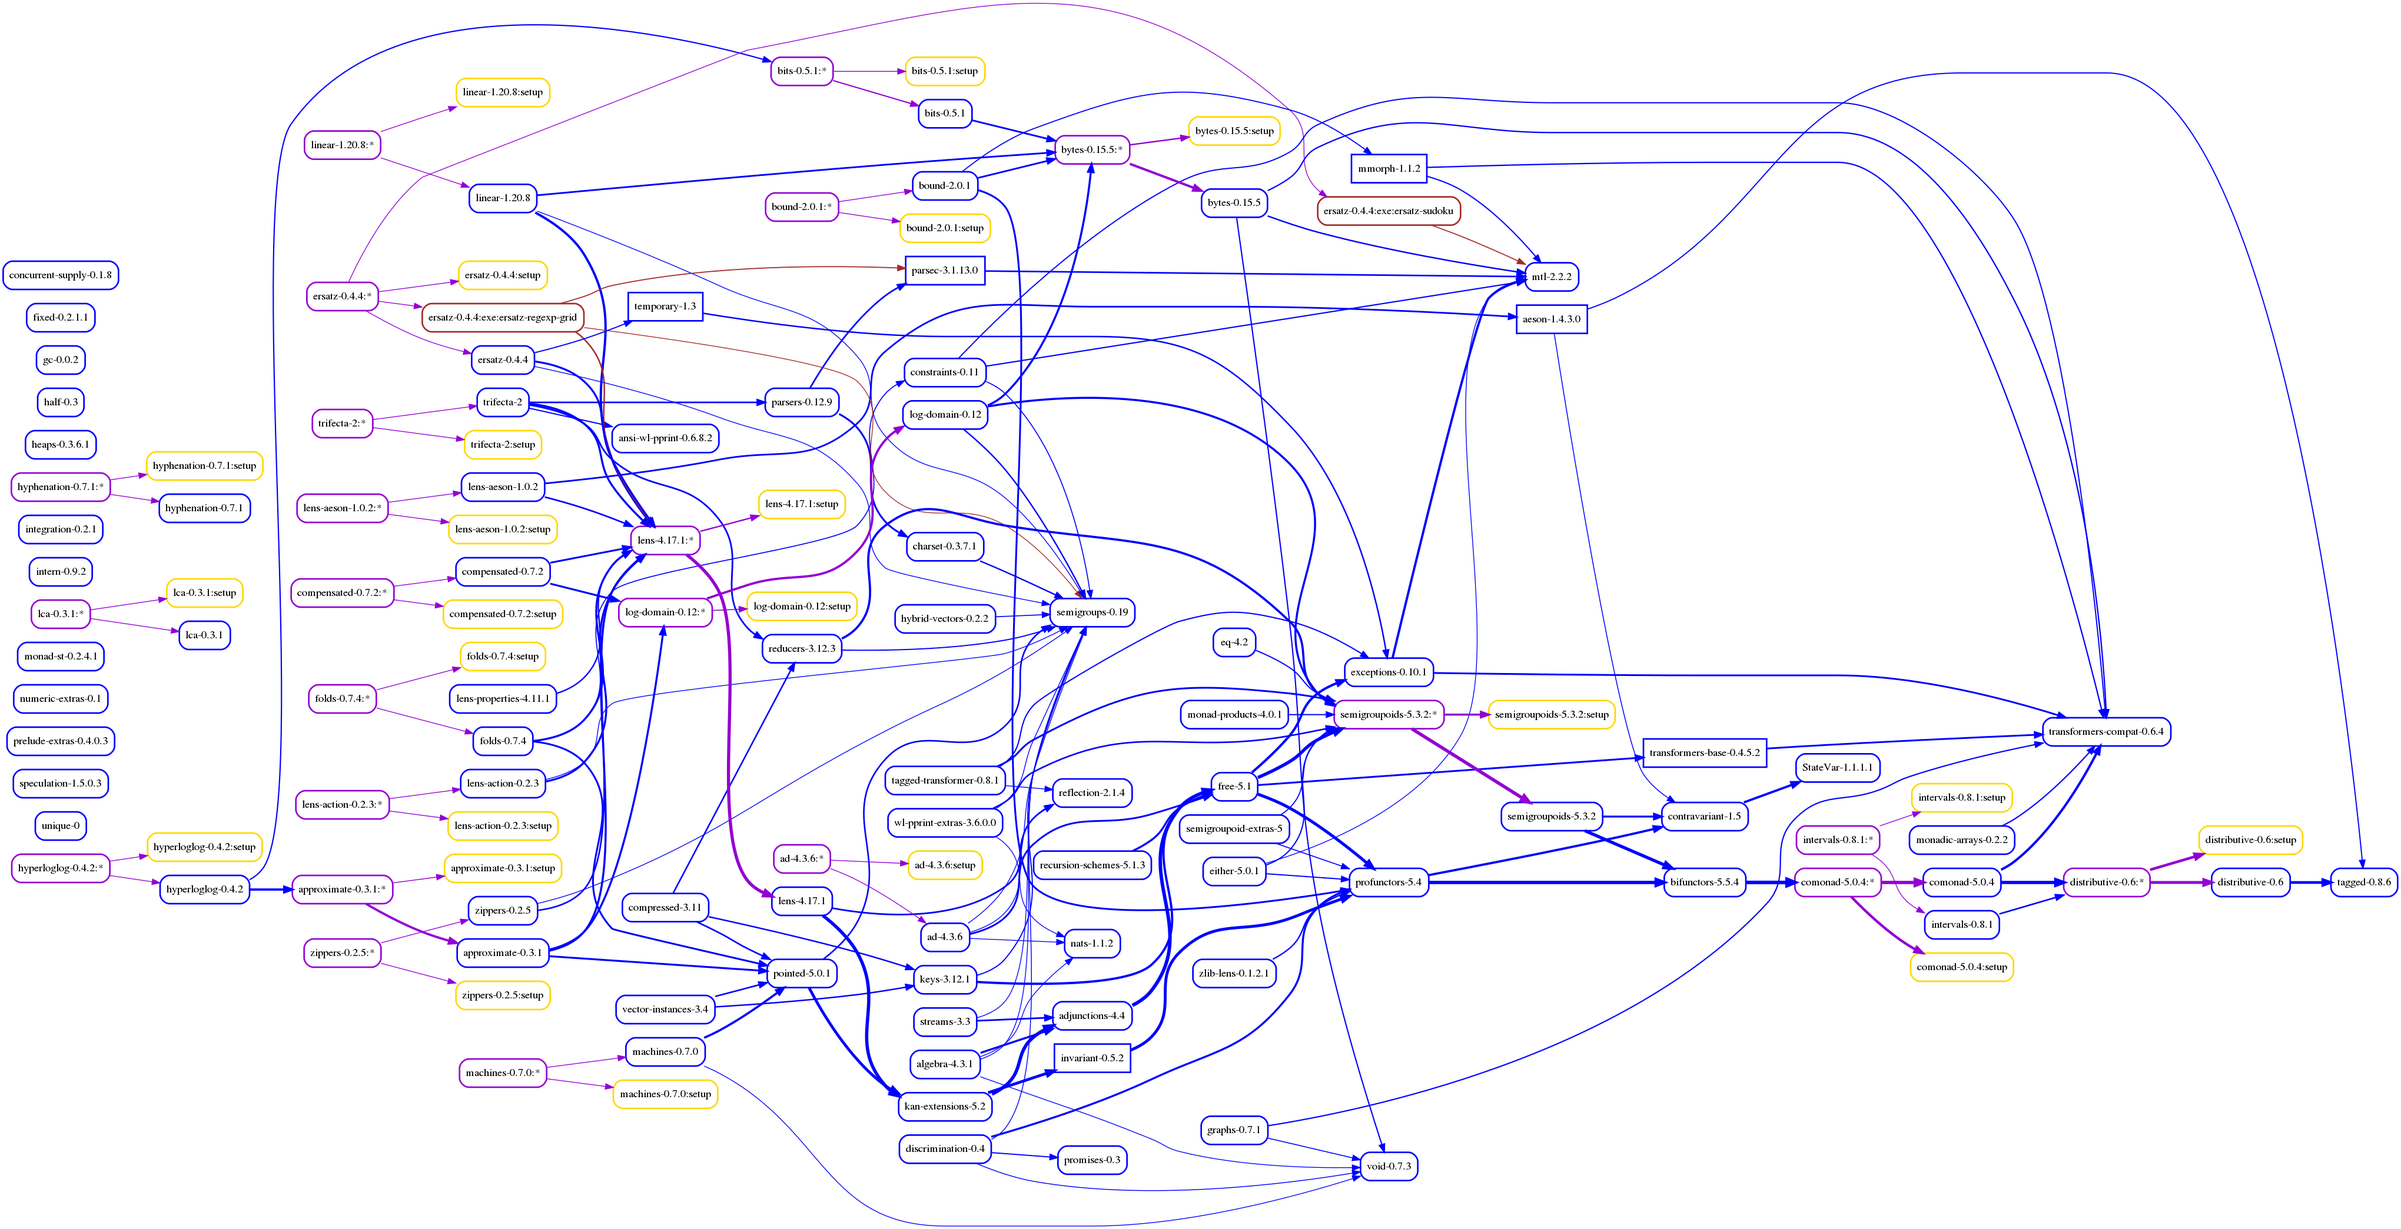
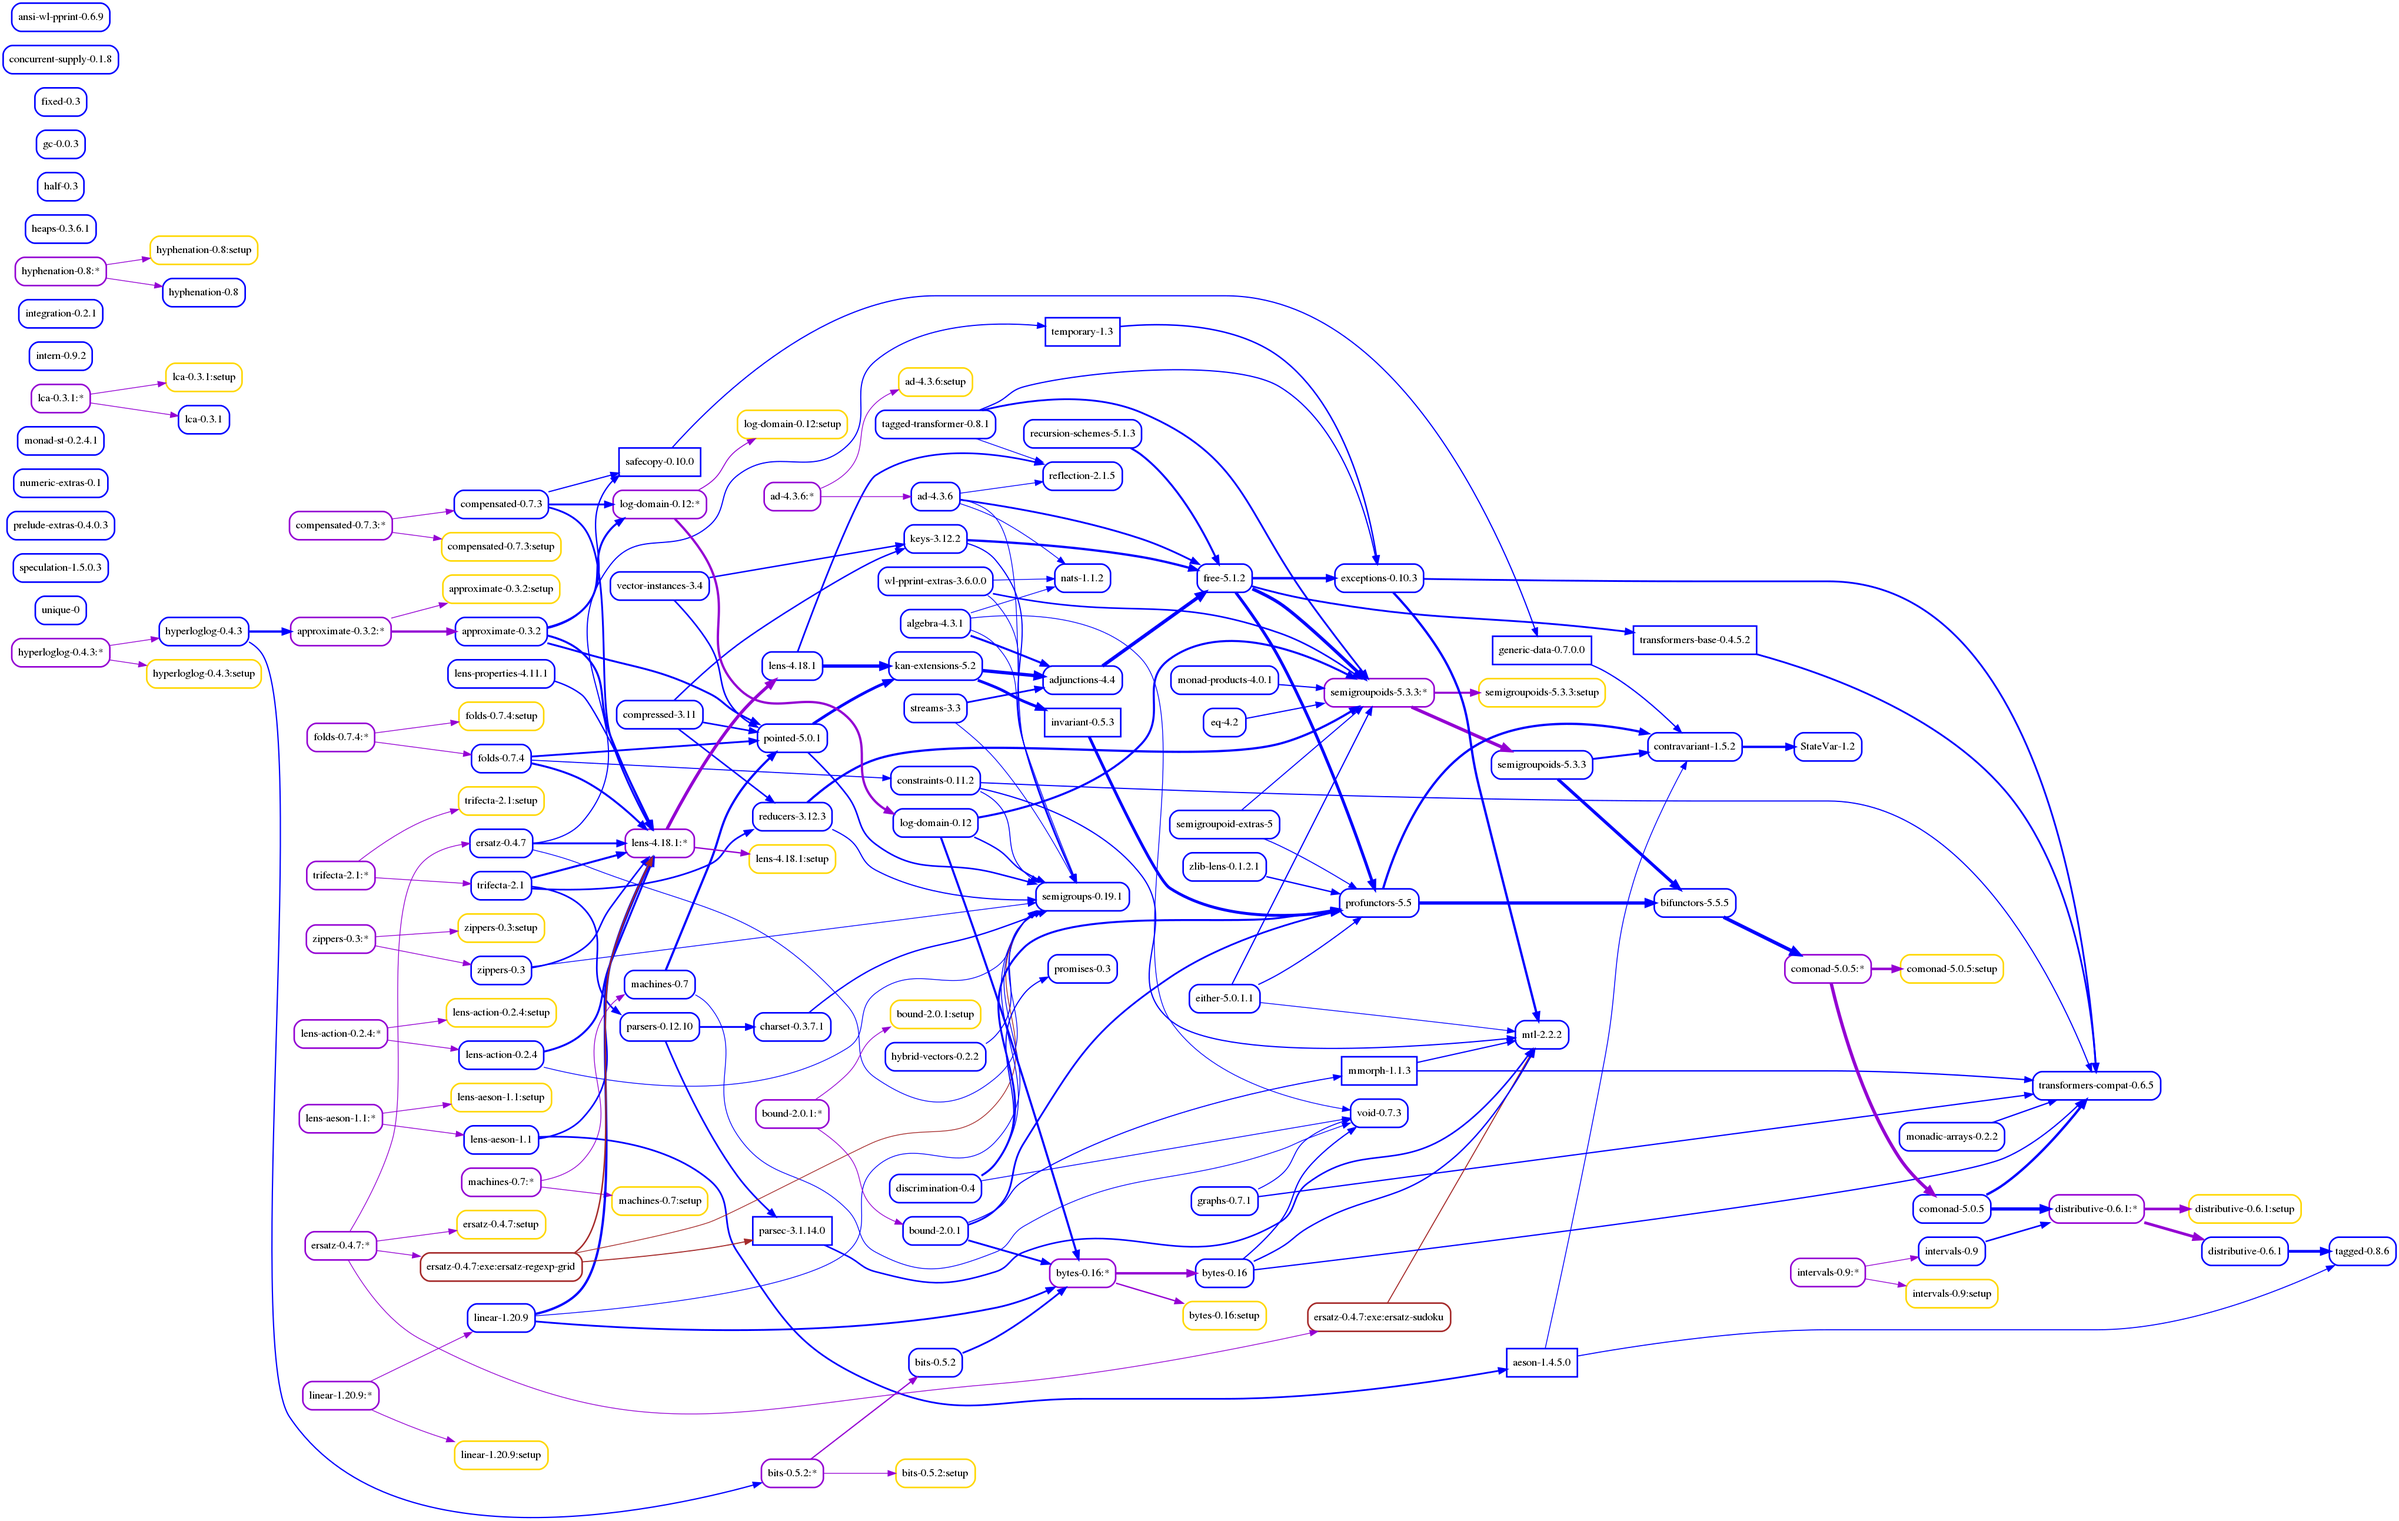
Updates

diff --git a/README.md b/README.md
@@ -11,9 +11,13 @@ make build
 
 ## Dependency graphs
 
-### GHC-8.6.4
+### GHC-8.8.1
 
-![deps-8.6](https://raw.githubusercontent.com/phadej/acme-kmett/master/deps.8.6.4.png)
+![deps-8.8](https://raw.githubusercontent.com/phadej/acme-kmett/master/deps.8.8.1.png)
+
+### GHC-8.6.5
+
+![deps-8.6](https://raw.githubusercontent.com/phadej/acme-kmett/master/deps.8.6.5.png)
 
 ### GHC-8.4.4
 
